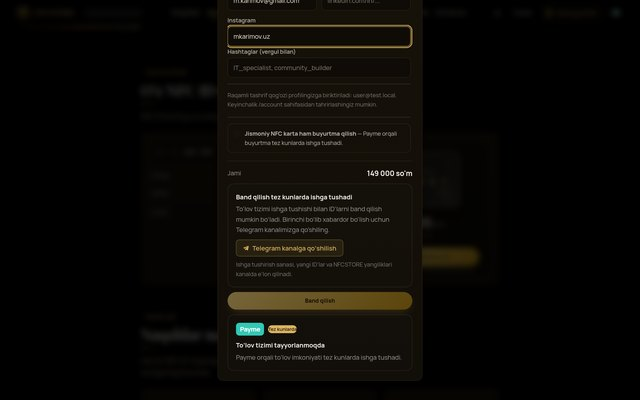
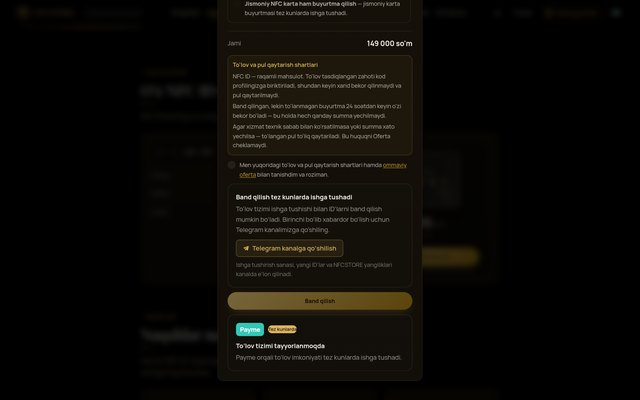
To'lov: pul qaytarish shartlari, majburiy rozilik va jismoniy karta bug'i
Payme ulanishidan oldingi uchta tuzatish.

1. JISMONIY KARTA KATAKCHASI — LAUNCH BUG'I (eng muhimi).
   ReserveModal'dagi "Jismoniy NFC karta ham buyurtma qilish" katakchasi
   `disabled={!PAYMENTS_ENABLED}` edi. Payme yoqilishi bilanoq u
   BOSILADIGAN bo'lardi, lekin hosting/worker.js (POST /api/records/:code)
   `physicalCard === true` ni ataylab 501 `physical_card_not_supported_yet`
   bilan rad etadi — backend porti hali yo'q. Natijada katakchani
   belgilagan mijozning QO'SHIMCHASI emas, BUTUN xaridi yiqilardi.
   Endi alohida `PHYSICAL_CARD_ENABLED = false` bayrog'i bilan yopiq;
   backend tayyor bo'lganda faqat shu bayroq yoqiladi.

2. PUL QAYTARISH SHARTLARI — TO'LOVDAN OLDIN KO'RINADI.
   Avval bu ma'lumot faqat /shartlar sahifasida edi va mijoz uni
   ko'rmasdan to'lardi. Endi band qilish oynasida, "Jami" summadan keyin,
   uchta qatorli qisqa blok turadi (Oferta 2.3-2.7 bandlarining bayoni).

3. MAJBURIY ROZILIK + YOZUV.
   To'lov tugmasi rozilik katakchasi belgilanmaguncha o'chiq turadi.
   Muhimi: rozilik faqat ekranda qolmaydi — `offerVersion` va
   `refundAckAt` buyurtma payload'i bilan birga web_orders'ga yoziladi.
   Nizo chiqqanda "rozilik bergan" degan gap emas, qaysi oferta
   tahririga va qachon rozilik berilgani haqidagi YOZUV kerak bo'ladi.

OFERTA MATNI (uz/ru/en) — 2.3-band bo'lindi:
Avval bitta band hamma narsa uchun "pul qaytarilmaydi" derdi. Bu
jismoniy karta uchun huquqiy jihatdan zaif edi va nuqsonli mahsulot
[…]

Changed region(s): [[0.3438, 0.0, 0.6562, 0.45], [0.375, 0.81, 0.5, 0.87]]

diff --git a/src/pages/TermsPage.jsx b/src/pages/TermsPage.jsx
@@ -21,7 +21,11 @@ const CONTENT = {
         p: [
           "2.1. NFCSTORE platformasidagi xizmatlar, jumladan auksiondagi eksklyuziv darajadagi kodlar uchun to'lovlar O'zbekiston Respublikasi hududida faoliyat yurituvchi litsenziyalangan to'lov tizimlari operatorlari va to'lov tashkilotlari orqali onlayn tarzda amalga oshiriladi.",
           "2.2. Auksion orqali xarid qilingan noyob kodlar uchun to'lov g'olib aniqlangandan so'ng 24 soat ichida to'liq hajmda amalga oshirilishi shart.",
-          "2.3. Xizmat xususiyatidan kelib chiqib (raqamli mulk huquqining avtomatik o'tishi sababli), to'lov muvaffaqiyatli tasdiqlangach, xarid bekor qilinmaydi va pul mablag'lari qaytarilmaydi.",
+          "2.3. Raqamli mahsulot (NFC ID, raqamli tashrif qog'ozi). To'lov muvaffaqiyatli tasdiqlangan zahoti kod Mijozning profiliga biriktiriladi va raqamli mulk huquqi Mijozga o'tadi, ya'ni xizmat to'liq ko'rsatilgan hisoblanadi. Shu sababli to'lov tasdiqlangandan keyin xarid bekor qilinmaydi va pul mablag'lari qaytarilmaydi.",
+          "2.4. Jismoniy NFC karta. Jismoniy karta har bir Mijozning ismi va shaxsiy ma'lumotlari bilan yakka tartibda (buyurtmaga muvofiq) tayyorlanadi. Shu sababli tegishli sifatdagi (nuqsonsiz) jismoniy karta almashtirilmaydi va qaytarilmaydi.",
+          "2.5. Pul qaytariladigan hollar. Quyidagi hollarda Mijoz to'langan summani to'liq qaytarishni yoki xizmatni qayta ko'rsatishni talab qilish huquqiga ega: (a) Platforma texnik sabab bilan xizmatni umuman ko'rsata olmasa yoki band qilingan kodni Mijozga bera olmasa; (b) summa xato yoki takroran yechilgan bo'lsa; (c) jismoniy karta nuqsonli bo'lsa, ishlamasa yoki buyurtmadan farq qilsa. 2.3 va 2.4-bandlar bu huquqni cheklamaydi.",
+          "2.6. Pul qaytarish tartibi. Ariza nfcstore.uz saytidagi «Aloqa» bo'limi yoki rasmiy Telegram bot orqali beriladi. Ariza kelib tushgan kundan boshlab 10 (o'n) ish kuni ichida ko'rib chiqiladi. Tasdiqlangan summa faqat to'lov amalga oshirilgan usul va o'sha karta hisobiga qaytariladi; qaytarish muddati to'lov tizimi va bank qoidalariga bog'liq.",
+          "2.7. To'lanmagan buyurtma. Band qilingan, lekin to'lovi amalga oshirilmagan buyurtma 24 soatdan keyin avtomatik bekor qilinadi va kod qayta sotuvga chiqadi. Bu holda Mijozdan hech qanday summa yechilmaydi.",
         ],
       },
       {
@@ -72,7 +76,11 @@ const CONTENT = {
         p: [
           '2.1. Оплата услуг платформы NFCSTORE, включая коды эксклюзивного уровня на аукционе, производится онлайн через лицензированных операторов платёжных систем и платёжные организации, действующие на территории Республики Узбекистан.',
           '2.2. Оплата за уникальные коды, приобретённые на аукционе, должна быть произведена в полном объёме в течение 24 часов после определения победителя.',
-          '2.3. В силу характера услуги (автоматический переход прав на цифровую собственность) после успешного подтверждения платежа покупка не отменяется и денежные средства не возвращаются.',
+          '2.3. Цифровой продукт (NFC ID, цифровая визитка). Сразу после успешного подтверждения платежа код закрепляется за профилем Клиента и права на цифровую собственность переходят к Клиенту, то есть услуга считается оказанной в полном объёме. Поэтому после подтверждения платежа покупка не отменяется и денежные средства не возвращаются.',
+          '2.4. Физическая NFC-карта. Физическая карта изготавливается индивидуально по заказу — с именем и персональными данными Клиента. Поэтому физическая карта надлежащего качества (без дефектов) обмену и возврату не подлежит.',
+          '2.5. Случаи возврата денежных средств. Клиент вправе требовать полного возврата уплаченной суммы или повторного оказания услуги в следующих случаях: (a) Платформа по техническим причинам не может оказать услугу или передать Клиенту забронированный код; (b) сумма списана ошибочно или повторно; (c) физическая карта имеет дефект, не работает или не соответствует заказу. Пункты 2.3 и 2.4 не ограничивают это право.',
+          '2.6. Порядок возврата. Заявление подаётся через раздел «Контакты» на сайте nfcstore.uz или официальный Telegram-бот. Заявление рассматривается в течение 10 (десяти) рабочих дней с даты поступления. Подтверждённая сумма возвращается исключительно тем же способом оплаты и на тот же карточный счёт; срок зачисления зависит от правил платёжной системы и банка.',
+          '2.7. Неоплаченный заказ. Забронированный, но не оплаченный заказ автоматически отменяется через 24 часа, и код возвращается в продажу. В этом случае с Клиента не списывается никакая сумма.',
         ],
       },
       {
@@ -123,7 +131,11 @@ const CONTENT = {
         p: [
           '2.1. Payment for the services of the NFCSTORE platform, including exclusive-tier codes at auction, is made online through licensed payment system operators and payment organizations operating in the territory of the Republic of Uzbekistan.',
           '2.2. Payment for unique codes purchased at auction must be made in full within 24 hours after the winner is determined.',
-          '2.3. Due to the nature of the service (automatic transfer of digital property rights), once a payment is successfully confirmed the purchase cannot be cancelled and funds are not refunded.',
+          '2.3. Digital product (NFC ID, digital business card). As soon as the payment is successfully confirmed, the code is attached to the Client\u2019s profile and digital property rights pass to the Client, meaning the service is deemed fully rendered. Therefore, once a payment is confirmed the purchase cannot be cancelled and funds are not refunded.',
+          '2.4. Physical NFC card. A physical card is produced individually to order, bearing the Client\u2019s name and personal details. Therefore a physical card of proper quality (free of defects) is not subject to exchange or return.',
+          '2.5. Cases in which funds are refunded. The Client is entitled to a full refund of the amount paid, or to have the service performed again, where: (a) the Platform is unable, for technical reasons, to render the service or to deliver the reserved code to the Client; (b) an amount was charged in error or charged twice; (c) a physical card is defective, does not work, or does not match the order. Clauses 2.3 and 2.4 do not limit this right.',
+          '2.6. Refund procedure. A request is submitted through the \u201cContact\u201d section of nfcstore.uz or the official Telegram bot. It is reviewed within 10 (ten) business days of receipt. An approved amount is refunded solely via the original payment method and to the same card account; crediting times depend on the payment system and bank rules.',
+          '2.7. Unpaid order. An order that is reserved but not paid is cancelled automatically after 24 hours and the code returns to sale. No amount is charged to the Client in that case.',
         ],
       },
       {

diff --git a/src/components/ReserveModal.jsx b/src/components/ReserveModal.jsx
@@ -26,6 +26,21 @@ async function fetchBotUsername() {
 
 const PHYSICAL_CARD_FEE = 200_000;
 
+// JISMONIY KARTA — BACKEND'DA HALI YO'Q.
+// hosting/worker.js (POST /api/records/:code) `physicalCard === true` ni
+// ATAYLAB 501 `physical_card_not_supported_yet` bilan rad etadi: pul olib,
+// keyin kartani yetkazib bera olmaydigan holatga yo'l qo'ymaslik uchun.
+// Avval bu katakcha `disabled={!PAYMENTS_ENABLED}` edi — ya'ni Payme
+// yoqilishi bilanoq bosiladigan bo'lardi va belgilagan mijozning BUTUN
+// xaridi 501 bilan yiqilardi (faqat qo'shimcha emas). Shu sababli
+// backend porti tayyor bo'lguncha alohida bayroq bilan yopiq turadi.
+const PHYSICAL_CARD_ENABLED = false;
+
+// Ommaviy oferta tahriri — rozilik yozuvi qaysi matnga berilganini
+// keyinchalik aniqlash uchun buyurtma bilan birga saqlanadi.
+// TermsPage.jsx o'zgarganda shu qiymat ham yangilanishi kerak.
+export const OFFER_VERSION = '2026-09';
+
 export default function ReserveModal({ code, price, onClose, onDone }) {
   const { user, refresh: refreshAuth } = useAuth();
   const { t } = useLanguage();
@@ -48,6 +63,7 @@ export default function ReserveModal({ code, price, onClose, onDone }) {
   const [shippingName, setShippingName] = useState('');
   const [shippingPhone, setShippingPhone] = useState('');
   const [shippingAddress, setShippingAddress] = useState('');
+  const [refundAck, setRefundAck] = useState(false);
   const [msg, setMsg] = useState(null);
   const [busy, setBusy] = useState(false);
   const [botUsername, setBotUsername] = useState(botUsernameCache || DEFAULT_BOT_USERNAME);
@@ -97,6 +113,7 @@ export default function ReserveModal({ code, price, onClose, onDone }) {
         return;
       }
     }
+    if (!refundAck) { setMsg({ type: 'err', text: t("To'lov shartlari va pul qaytarish tartibiga rozilik bering.") }); return; }
     setBusy(true);
     try {
       await ensureAccount();
@@ -111,6 +128,11 @@ export default function ReserveModal({ code, price, onClose, onDone }) {
         instagram: instagram.trim(),
         hashtags: hashtags.split(',').map((h) => h.trim()).filter(Boolean),
         price,
+        // Nizo chiqqanda "rozilik bergan" degan gap emas, YOZUV kerak:
+        // qaysi oferta tahririga va qachon rozilik berilgani buyurtma
+        // payload'i bilan birga web_orders'da saqlanadi.
+        offerVersion: OFFER_VERSION,
+        refundAckAt: new Date().toISOString(),
         physicalCard: wantPhysicalCard,
         ...(wantPhysicalCard ? {
           shippingName: shippingName.trim(),
@@ -321,9 +343,9 @@ export default function ReserveModal({ code, price, onClose, onDone }) {
 
             <div className="divider my-2"></div>
             <label className="flex cursor-pointer items-start gap-2.5 rounded-xl border border-white/10 p-3">
-              <input type="checkbox" checked={wantPhysicalCard} onChange={(e) => setWantPhysicalCard(e.target.checked)} className="checkbox checkbox-sm mt-0.5" disabled={!PAYMENTS_ENABLED} />
+              <input type="checkbox" checked={wantPhysicalCard} onChange={(e) => setWantPhysicalCard(e.target.checked)} className="checkbox checkbox-sm mt-0.5" disabled={!PHYSICAL_CARD_ENABLED} />
               <span className="text-xs leading-relaxed text-base-content/75">
-              <b>{t('Jismoniy NFC karta ham buyurtma qilish')}</b> {t(PAYMENTS_ENABLED ? "— profilingizni jismoniy karta orqali ulashasiz. Qo‘shimcha {fee}." : "— Payme orqali buyurtma tez kunlarda ishga tushadi.", { fee: fmt(PHYSICAL_CARD_FEE) + " so'm" })}
+              <b>{t('Jismoniy NFC karta ham buyurtma qilish')}</b> {t(PHYSICAL_CARD_ENABLED ? "— profilingizni jismoniy karta orqali ulashasiz. Qo‘shimcha {fee}." : "— jismoniy karta buyurtmasi tez kunlarda ishga tushadi.", { fee: fmt(PHYSICAL_CARD_FEE) + " so'm" })}
               </span>
             </label>
             {wantPhysicalCard && (
@@ -350,12 +372,42 @@ export default function ReserveModal({ code, price, onClose, onDone }) {
             <span className="text-sm text-base-content/60">{t('Jami')}</span>
             <b className="text-lg">{t("{n} so'm", { n: fmt(totalPrice) })}</b>
           </div>
+
+          {/* PUL QAYTARISH TARTIBI — to'lovdan OLDIN, o'qilishi shart joyda.
+              Avval bu ma'lumot faqat /shartlar sahifasida edi: mijoz uni
+              ko'rmasdan to'lardi. Matn Oferta 2.3-2.6 bandlarining qisqa
+              bayoni; to'liq shartlar havola orqali. */}
+          <div className="mt-4 rounded-xl border border-warning/25 bg-warning/5 p-3">
+            <p className="text-xs font-semibold text-warning">{t("To'lov va pul qaytarish shartlari")}</p>
+            <ul className="mt-1.5 space-y-1 text-xs leading-relaxed text-base-content/70">
+              <li>{t("NFC ID — raqamli mahsulot. To'lov tasdiqlangan zahoti kod profilingizga biriktiriladi, shundan keyin xarid bekor qilinmaydi va pul qaytarilmaydi.")}</li>
+              <li>{t("Band qilingan, lekin to'lanmagan buyurtma 24 soatdan keyin o'zi bekor bo'ladi — bu holda hech qanday summa yechilmaydi.")}</li>
+              <li>{t("Agar xizmat texnik sabab bilan ko'rsatilmasa yoki summa xato yechilsa — to'langan pul to'liq qaytariladi. Bu huquqni Oferta cheklamaydi.")}</li>
+            </ul>
+          </div>
+          <label className="mt-3 flex cursor-pointer items-start gap-2.5">
+            <input
+              type="checkbox"
+              checked={refundAck}
+              onChange={(e) => setRefundAck(e.target.checked)}
+              className="checkbox checkbox-sm mt-0.5"
+              aria-describedby="reserve-refund-ack"
+            />
+            <span id="reserve-refund-ack" className="text-xs leading-relaxed text-base-content/75">
+              {t("Men yuqoridagi to'lov va pul qaytarish shartlari hamda")}{' '}
+              <a href="/shartlar" target="_blank" rel="noopener noreferrer" className="text-accent underline underline-offset-2">
+                {t('ommaviy oferta')}
+              </a>{' '}
+              {t("bilan tanishdim va roziman.")}
+            </span>
+          </label>
+
           {paymentBlocked && <TelegramChannelCTA />}
           {!paymentBlocked && <div className="mt-3 flex justify-center"><PaymeReadyBadge /></div>}
           <button
             className={`btn btn-gold mt-3 w-full ${paymentBlocked ? 'btn-disabled !cursor-not-allowed opacity-60' : ''}`}
             onClick={submit}
-            disabled={busy || paymentBlocked}
+            disabled={busy || paymentBlocked || !refundAck}
             aria-disabled={paymentBlocked}
             title={paymentBlocked ? t('Payme orqali to‘lov imkoniyati tez kunlarda ishga tushadi.') : undefined}
           >

diff --git a/src/lib/guides.js b/src/lib/guides.js
@@ -124,7 +124,7 @@ export const GUIDES = [
       realFrame(2, 'guide3-nfcid', 2, "Kalkulyatorga xohlagan NFC ID'ni yozing — daraja, sabab, holati (bo'sh yoki band) va aniq narx darhol ko'rinadi. Masalan AZK007 → Gold → 149 000 so'm.", { cursorX: 65, cursorY: 48, highlightBox: { xPct: 53.5, yPct: 25.5, wPct: 23, hPct: 34 } }),
       realFrame(3, 'guide3-nfcid', 3, "Ro'yxatdan o'tganda avtomatik BEPUL 8 xonali ID olgan edingiz. Bu yerda esa yuqoriroq darajadagi PULLIK, qisqa NFC ID tanlaysiz — narx yozilgan tugmani bosing.", { cursorX: 65, cursorY: 64, clickEffect: true, highlightBox: { xPct: 55, yPct: 61.8, wPct: 20, hPct: 4.5 } }),
       realFrame(4, 'guide3-nfcid', 4, "Ochilgan oynada ismingiz, kasbingiz, telefon, email va ijtimoiy tarmoqlaringizni kiriting — bular yangi NFC ID profilida ko'rinadi. Keyinchalik kabinetdan tahrirlash mumkin.", { cursorX: 50, cursorY: 30, highlightBox: { xPct: 35.5, yPct: 18, wPct: 29, hPct: 52 } }),
-      realFrame(5, 'guide3-nfcid', 5, "Oynaning pastida jami summa turadi. Hozircha Payme integratsiyasi ishga tushirilmoqda, shu sabab «Band qilish» tugmasi vaqtincha yopiq — bu haqiqiy joriy holat.", { cursorX: 50, cursorY: 75, highlightBox: { xPct: 35.5, yPct: 72, wPct: 29, hPct: 19.5 } }),
+      realFrame(5, 'guide3-nfcid', 5, "Oynaning pastida jami summa, to'lov va pul qaytarish shartlari hamda rozilik katakchasi turadi — rozilik bermaguningizcha to'lov tugmasi ochilmaydi. Hozircha Payme integratsiyasi ishga tushirilmoqda, shu sabab «Band qilish» vaqtincha yopiq.", { cursorX: 37, cursorY: 42, highlightBox: { xPct: 35.5, yPct: 14, wPct: 29, hPct: 31 }, durationMs: 3400 }),
       mockFrame(6, 'card', "DEMO: Payme ishga tushgach, to‘lovni yakunlaysiz va yangi NFC ID’ingiz («Gold» darajali AZK007 kabi) profilingizga avtomatik biriktiriladi.", { highlight: 'price', durationMs: 2900 }),
     ]),
 
